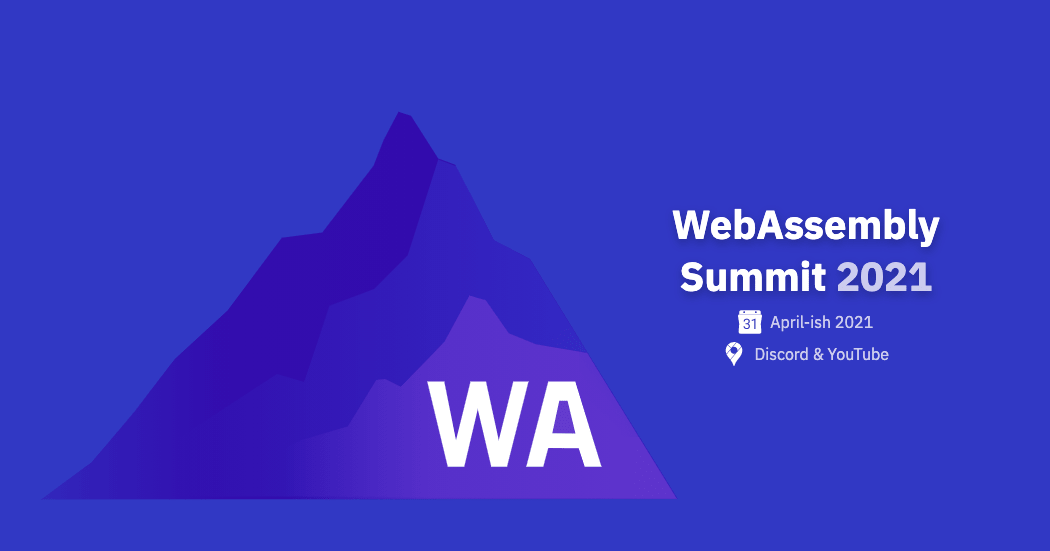
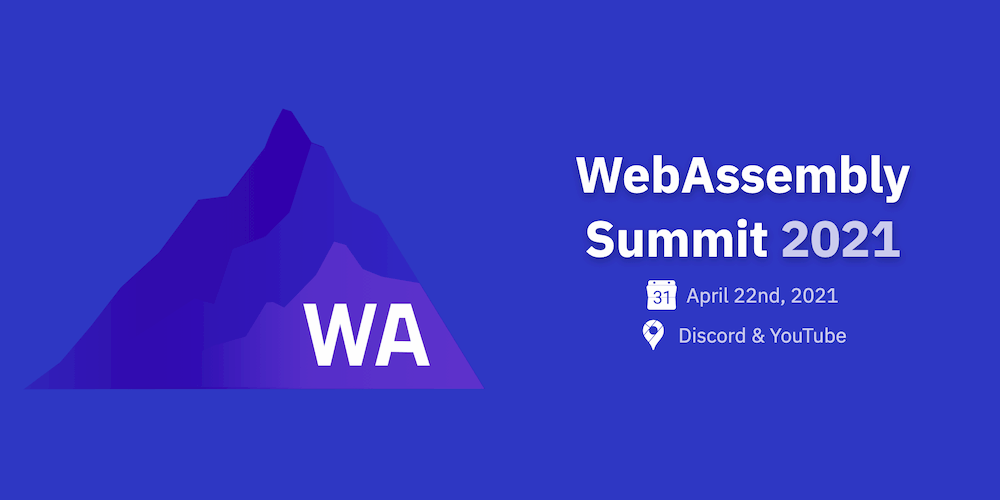
Add date

Changed region(s): [[0.031, 0.21, 0.651, 0.93], [0.558, 0.3, 0.93, 0.69]]

diff --git a/src/faq.md b/src/faq.md
@@ -25,7 +25,7 @@ WebAssembly Summit is a conference to bring together the WebAssembly community t
 
 # When is WebAssembly Summit 2021?
 
-April-ish 2021
+April 22nd, 2021
 
 # How will WebAssembly Summit 2021 be hosted?
 
